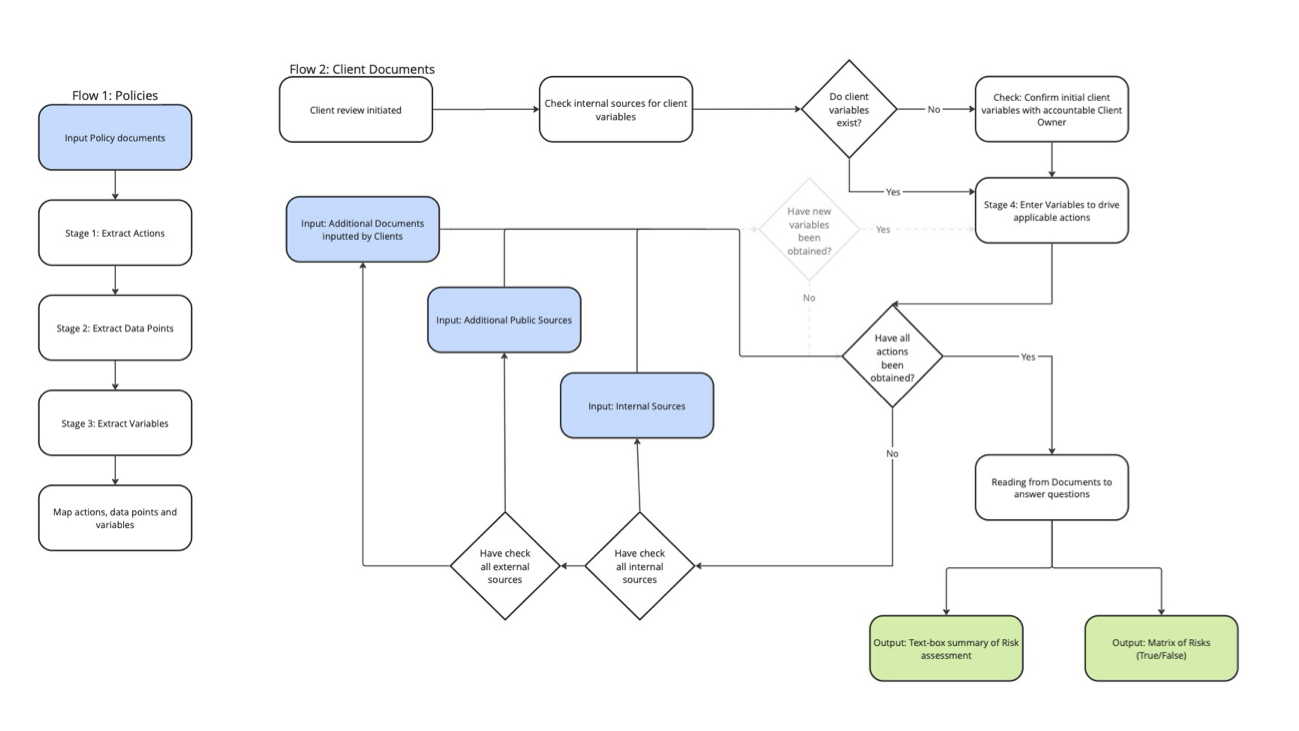
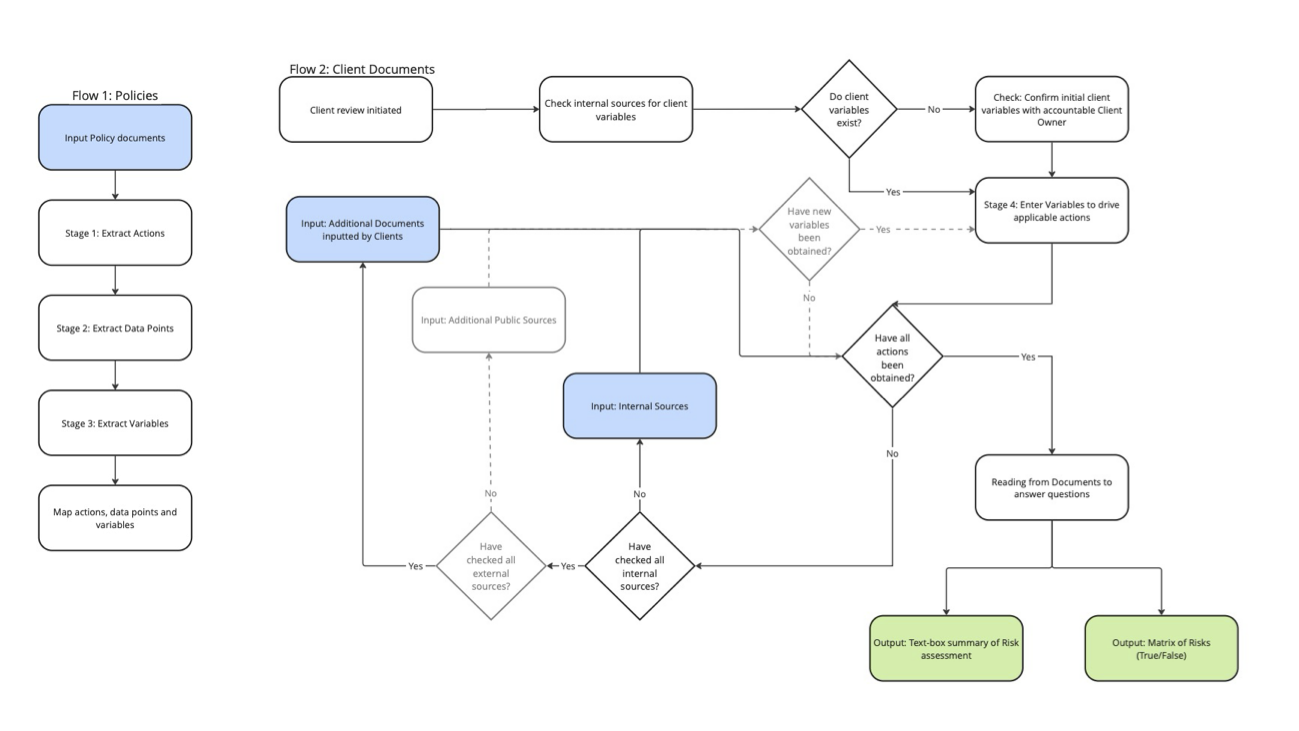
Updated documentation adn logical flow

diff --git a/TECHNICAL.md b/TECHNICAL.md
@@ -75,7 +75,7 @@ From relevant policy documents we want to extract data to end up with a set of K
 1. Background check with **X policy for Y client** (triggered by KYC-ops) 
 2. Obtain **Evidence**. Sources ordered by priority:
     1. Internal -> From database with API
-    2. Public -> Mocked 
+    2. Public -> [[Roadmap Stage 2 - Planned Features](#stage-2---planned-features)]: To be able to check Public Sources for publicly availible documnetation. 
     3. Client -> Provided by users via email
     - Two types of **integrations**:
         1. Internal tools (DB)
@@ -138,6 +138,7 @@ Following the successful implementation of Stage 1, we have outlined a set of ad
 - **Human Reiteration Loop**: An admin should be added in the loop to supervise the steps. This can be modeled an accept/refuse UI button after each step 1-4. We need to decide what action the user can take in case they refuse. Current options are:
     - Change of prompt
     - Change of generated outputs (which will always be in xlsx format)
+- **Obtain Public Evidence**: As a second priority to internal data, before clients are asked for data it should be able to check Public Sources for publicly availible documnetation.  
 - **Reiteration for extra Data Points**: A check for additional variables that may become apparent only after checking initital evidence (e.g. requested full name and passport as evidence, after passport uploaded check the eventual actions that apply to that specific country and ask for more data).
 
 ## How to Deploy
